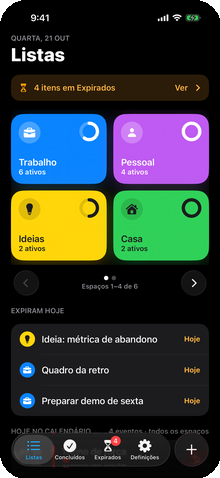
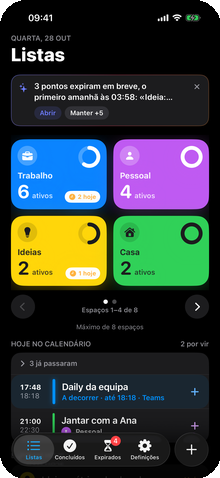
README 0.2: novidades, widgets e Ampulheta, Para ti, vistas partilhadas e imagens novas

diff --git a/README.md b/README.md
@@ -9,6 +9,7 @@
 O que não recebe atenção em 3 dias sai do caminho.<br>
 A tua lista mostra só o que ainda importa, sem se tornar um arquivo de coisas por fazer.
 
+[![Versão 0.2](https://img.shields.io/badge/vers%C3%A3o-0.2-A050E0)](#novidades-da-02)
 [![CI](https://github.com/hroxo/todo/actions/workflows/ci.yml/badge.svg)](https://github.com/hroxo/todo/actions/workflows/ci.yml)
 [![iOS 26+](https://img.shields.io/badge/iOS-26%2B-000000?logo=apple&logoColor=white)](#instalar-no-iphone)
 [![Swift](https://img.shields.io/badge/Swift-SwiftUI%20%C2%B7%20SwiftData-F05138?logo=swift&logoColor=white)](#arquitetura)
@@ -23,6 +24,21 @@ A tua lista mostra só o que ainda importa, sem se tornar um arquivo de coisas p
 
 ---
 
+## Novidades da 0.2
+
+A 0.2 deu à ToDo uma identidade própria e um fluxo mais simples de usar todos os dias.
+
+- ⏳ **A Ampulheta.** A mascote da app aparece no widget, nos ecrãs vazios e no ícone novo, dentro do anel do prazo. Muda com a hora do dia (acena de manhã, celebra quando estás em dia, dorme à noite) e com o que andas a fazer (trabalho, tempo para ti, viagem).
+- 🧩 **Widgets.** O widget médio *O que importa agora* mostra os 3 pontos mais urgentes, que concluis com um toque no anel. No ecrã bloqueado, um **+** abre a captura, e há um controlo *Nova nota* para o Centro de Controlo e o Action Button.
+- ✨ **Para ti.** Um cartão no topo do Início diz numa frase o que importa agora, com o botão certo ao lado (Abrir, Manter +5, Tornar permanente…). Quando não há nada a dizer, não aparece.
+- 🧠 **Inteligência no iPhone.** Os avisos e o *Para ti* têm contexto ("2 subtópicos por fazer · sem mexer desde segunda"), escritos pelo modelo da Apple no próprio telemóvel. Nada sai do iPhone, e tudo se desliga nas Definições.
+- 💧 **Manter com física de água.** A gota de vidro segue o dedo com inércia, estica, treme e enche-se de cor.
+- 👥 **Vistas partilhadas.** Listas por secções (lojas, divisões da casa, dias de viagem) que não expiram e se partilham por AirDrop. Abrir no outro iPhone junta as duas cópias.
+- 🧹 **Listas que também se arrumam.** Uma lista sem pontos abertos sai do Início ao fim de 5 dias, com aviso na véspera. Até 4 listas podem ser permanentes.
+- 🎨 **Início ao estilo Fitness.** Cartões de cor cheia, números grandes e o vidro só onde faz falta.
+- 💾 **Backup em JSON.** Exportar e restaurar tudo (listas, pontos, fotos e definições), com um resumo antes de confirmar. A base de dados já está pronta para o iCloud.
+- 🍎 **Iniciar sessão com a Apple**, opcional, preparado para o dia da conta Apple Developer.
+
 ## Porquê
 
 As apps de tarefas crescem até ninguém as abrir. Cada ideia fica lá para sempre, e a lista deixa de dizer o que é importante.
@@ -32,8 +48,9 @@ O **ToDo** inverte isto: **cada ponto tem 3 dias de vida.** Se lhe tocas (editas
 - 🧹 **Dinâmica, não arquivo**: a lista ativa só tem o que ainda importa.
 - 🛟 **Nada se perde por engano**: o que expira é recuperável.
 - ⚡ **Registar em segundos**: escrever e guardar, com o teclado já aberto.
-- 🔒 **Tudo no teu iPhone**: sem servidor e sem custos. Ligar uma conta Google ou Outlook é opcional e só lê o calendário.
+- 🔒 **Tudo no teu iPhone**: sem servidor e sem custos. A inteligência corre no próprio telemóvel. Ligar uma conta Google ou Outlook é opcional e só lê o calendário.
 - ✨ **Simples e bonita**: nativa, com o liquid glass do iOS 26 e cores com significado.
+- 💜 **Carinho em cada gesto**: animações com física, como o botão Manter, em todos os ecrãs e nos widgets.
 
 ## Funcionalidades
 
@@ -42,7 +59,7 @@ O **ToDo** inverte isto: **cada ponto tem 3 dias de vida.** Se lhe tocas (editas
 <td width="50%" valign="top">
 
 ### ⏳ Um anel que conta o tempo
-Cada ponto mostra um anel que se esvazia nos 3 dias e fica laranja no último. O Início junta o que expira hoje.
+Cada ponto mostra um anel que se esvazia nos 3 dias e fica laranja no último. O cartão Para ti, no Início, avisa do que expira primeiro.
 
 </td>
 <td width="50%" align="center"><img src="docs/media/fluxo-navegacao.gif" width="240" alt="Do Início para uma lista e para o detalhe de um ponto"></td>
@@ -52,9 +69,36 @@ Cada ponto mostra um anel que se esvazia nos 3 dias e fica laranja no último. O
 <td valign="top">
 
 ### 💧 Manter, num gesto
-Um toque dá **+5 dias**. Prime e arrasta: a gota de vidro divide-se em **+5** e **+15**, e soltas para escolher. Também funciona a partir da notificação, sem abrir a app.
+Um toque dá **+5 dias**. Prime e arrasta: a gota de vidro divide-se em **+5** e **+15**, com física de água, e soltas para escolher. Também funciona a partir da notificação, sem abrir a app.
 
 </td>
+</tr>
+<tr>
+<td valign="top">
+
+### ⏳ Widgets com a Ampulheta
+*O que importa agora* no ecrã principal: o número do dia e os 3 pontos mais urgentes, que concluis no anel sem abrir a app. Sem nada pendente, a Ampulheta acena, celebra, trabalha, lê no parque, viaja ou dorme, conforme a hora e o que andas a fazer.
+
+</td>
+<td align="center"><img src="docs/media/fluxo-widgets.gif" width="240" alt="O widget O que importa agora e a Ampulheta em várias poses"></td>
+</tr>
+<tr>
+<td align="center"><img src="docs/media/fluxo-parati.gif" width="240" alt="O cartão Para ti no topo do Início"></td>
+<td valign="top">
+
+### ✨ Para ti
+Uma frase no topo do Início com o que importa agora: o ponto que expira amanhã, a lista que vai sair, a reunião daqui a pouco com subtópicos por fazer. O botão certo está logo ao lado.
+
+</td>
+</tr>
+<tr>
+<td valign="top">
+
+### 👥 Vistas partilhadas
+Uma lista a dois, por secções (o Continente, o IKEA, a sala), com pontos que se riscam e não expiram. Partilha-a por AirDrop: o outro iPhone junta as duas cópias.
+
+</td>
+<td align="center"><img src="docs/media/fluxo-partilhada.gif" width="240" alt="Vista partilhada com secções por loja"></td>
 </tr>
 <tr>
 <td valign="top">
@@ -94,17 +138,20 @@ E ainda:
 - **Captura rápida**, com subtópicos, fotos e escolha do espaço.
 - **Concluídos** durante 7 dias, para reabrir se for preciso, com **filtros** por espaço e por data (também em Expirados).
 - **Exportar CSV** de um espaço ou de tudo, pronto a abrir no Excel ou no Numbers.
+- **Backup em JSON**: exportar e restaurar tudo, com fotos e definições, sem apagar nada.
+- **Listas que se arrumam**: uma lista vazia sai ao fim de 5 dias (com aviso na véspera); até 4 podem ser permanentes.
+- **Ecrãs vazios com a Ampulheta**: a celebrar quando nada expirou.
 - **Notificações** 24 horas antes de um ponto expirar (nunca durante a noite).
 - Cada gesto tem uma alternativa por menu, e a app suporta Dynamic Type e VoiceOver.
 
 ## Galeria
 
-| | Início | Lista | Detalhe | Captura | Expirados | Definições |
-|---|---|---|---|---|---|---|
-| **Escuro** | <img src="docs/media/galeria-1-inicio-escuro.png" width="120"> | <img src="docs/media/galeria-2-lista-escuro.png" width="120"> | <img src="docs/media/galeria-3-detalhe-escuro.png" width="120"> | <img src="docs/media/galeria-6-captura-escuro.png" width="120"> | <img src="docs/media/galeria-8-expirados-escuro.png" width="120"> | <img src="docs/media/galeria-10-definicoes-escuro.png" width="120"> |
-| **Claro** | <img src="docs/media/galeria-1-inicio-claro.png" width="120"> | <img src="docs/media/galeria-2-lista-claro.png" width="120"> | <img src="docs/media/galeria-3-detalhe-claro.png" width="120"> | <img src="docs/media/galeria-6-captura-claro.png" width="120"> | <img src="docs/media/galeria-8-expirados-claro.png" width="120"> | <img src="docs/media/galeria-10-definicoes-claro.png" width="120"> |
+| | Início | Lista | Detalhe | Captura | Partilhada | Expirados | Definições |
+|---|---|---|---|---|---|---|---|
+| **Escuro** | <img src="docs/media/galeria-1-inicio-escuro.png" width="110"> | <img src="docs/media/galeria-2-lista-escuro.png" width="110"> | <img src="docs/media/galeria-3-detalhe-escuro.png" width="110"> | <img src="docs/media/galeria-6-captura-escuro.png" width="110"> | <img src="docs/media/galeria-7-partilhada-escuro.png" width="110"> | <img src="docs/media/galeria-8-expirados-escuro.png" width="110"> | <img src="docs/media/galeria-10-definicoes-escuro.png" width="110"> |
+| **Claro** | <img src="docs/media/galeria-1-inicio-claro.png" width="110"> | <img src="docs/media/galeria-2-lista-claro.png" width="110"> | <img src="docs/media/galeria-3-detalhe-claro.png" width="110"> | <img src="docs/media/galeria-6-captura-claro.png" width="110"> | <img src="docs/media/galeria-7-partilhada-claro.png" width="110"> | <img src="docs/media/galeria-8-expirados-claro.png" width="110"> | <img src="docs/media/galeria-10-definicoes-claro.png" width="110"> |
 
-<sub>Capturas reais do simulador, tiradas pelo CI em cada versão.</sub>
+<sub>Capturas reais do simulador, versão 0.2.</sub>
 
 ## Como funciona
 
@@ -200,15 +247,16 @@ Para não dependeres do computador todas as semanas, podes instalar o [SideStore
 
 ```
 ToDo
-├── App/                     Interface SwiftUI (ecrãs, componentes, notificações, calendário)
+├── App/                     Interface SwiftUI (ecrãs, componentes, notificações, calendário, inteligência)
 │   └── Resources/           Catálogo de cores (12 × 4 variantes) e ícone
-├── Packages/ToDoCore/       Núcleo sem interface: modelos SwiftData, regras, testes
+├── Widgets/                 Extensão WidgetKit: O que importa agora, a Ampulheta, ecrã bloqueado e controlo
+├── Packages/ToDoCore/       Núcleo sem interface: modelos SwiftData, regras, backup, testes
 ├── design/                  Guia de UI (DESIGN.md), ícone e mocks
 ├── scripts/                 Capturas de ecrã, mocks e imagens do README
 └── project.yml              Projeto Xcode gerado pelo XcodeGen
 ```
 
-- **SwiftUI** com liquid glass (`glassEffect`, `GlassEffectContainer`), **SwiftData** com o esquema versionado e migrações testadas, **EventKit** só para leitura, **UserNotifications** com ações, **PhotosPicker**.
+- **SwiftUI** com liquid glass (`glassEffect`, `GlassEffectContainer`), **SwiftData** com o esquema versionado (V6, pronto para o CloudKit) e migrações testadas, **WidgetKit** e **App Intents**, **Foundation Models** (o modelo da Apple, no iPhone), **EventKit** só para leitura, **UserNotifications** com ações, **PhotosPicker**.
 - **O núcleo é testado à parte** (`swift test`): cada regra do produto tem testes, com um relógio injetável para as datas.
 - **Sem dependências externas.**
 
@@ -242,12 +290,14 @@ A app tem um **modo de demonstração** (`-demo YES -ecra <nome>`), com dados de
 - [x] **M3** Expirados, Concluídos, Definições, captura rápida e design
 - [x] **M4** Descrição curta, Definições reorganizadas
 - [x] **M5** Calendário (EventKit), espaços em páginas, calendário por espaço
-- [ ] **M6** Importar CSV e backup JSON
-- [ ] **M7** Acabamento visual, háptica e acessibilidade
+- [x] **M6** Versão 0.2: widgets e a Ampulheta, Para ti, inteligência no iPhone, vistas partilhadas, listas permanentes, backup JSON, ícone novo
+- [ ] **M7** Conta Apple Developer: TestFlight, widget com dados, iCloud contínuo
+- [ ] **M8** Vistas partilhadas ao vivo, captura inteligente, Siri e Atalhos
+- [ ] **M9** Importar CSV; acabamento visual, háptica e acessibilidade
 
 ## Design
 
-O guia de UI está em [`design/DESIGN.md`](design/DESIGN.md) e os mocks em [`design/mocks/`](design/mocks). O ícone, *três linhas de lista que encolhem e desvanecem*, conta a ideia da app: a lista que se limpa sozinha.
+O guia de UI está em [`design/DESIGN.md`](design/DESIGN.md) e os mocks em [`design/mocks/`](design/mocks). O ícone junta as duas assinaturas da app: **a Ampulheta dentro do anel do prazo**, três quartos cheio. É gerado a partir do mesmo código da mascote do widget, nas versões clara, escura e tingida.
 
 <p align="center"><img src="design/icone/icone-preview.png" width="520" alt="O ícone nas versões clara, escura e tingida"></p>
 
